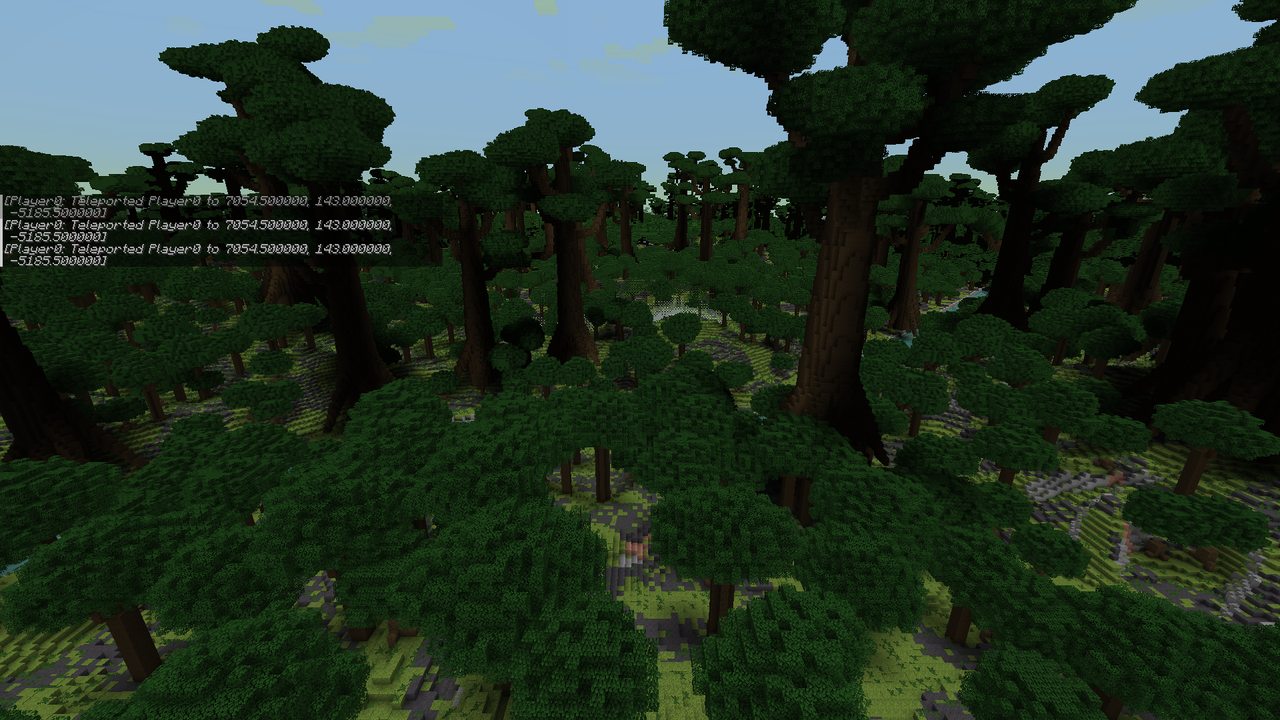
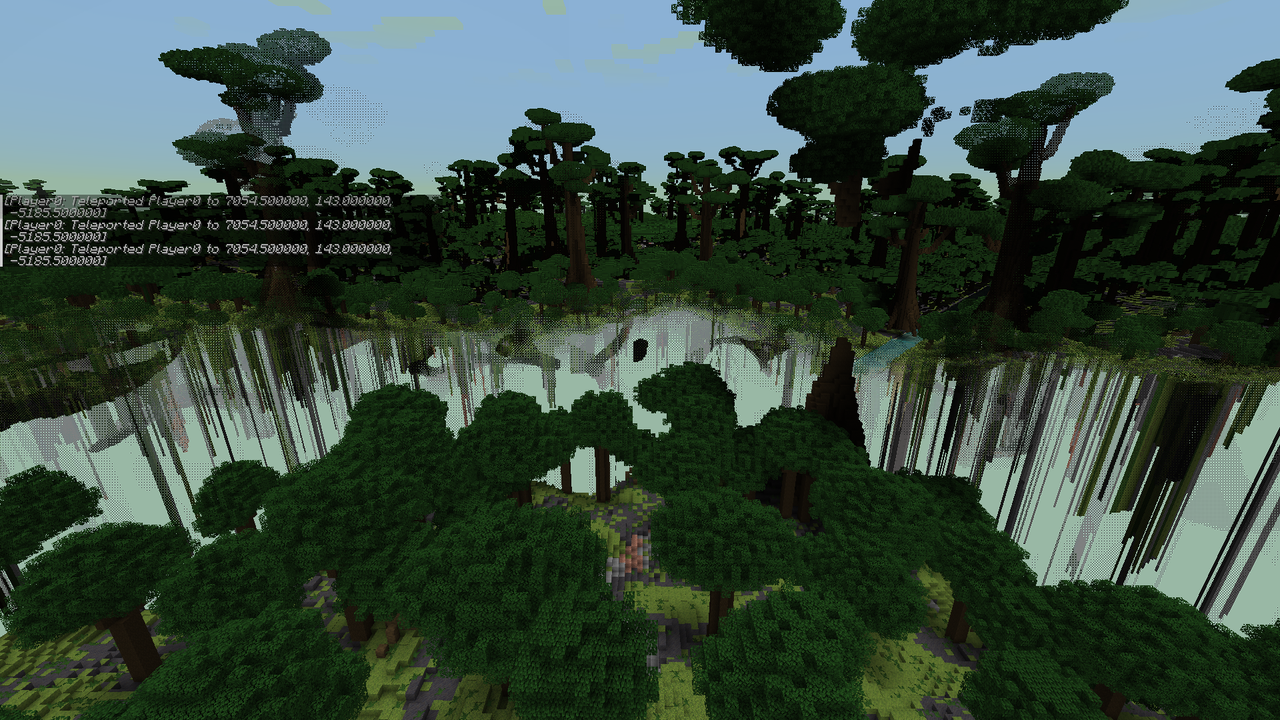
Record device session 2: launcher fix, full-pack FPS, census and screenshots
Claude-Session: https://claude.ai/code/session_01XgAo3bNJTgy4FV4EhYCazH

diff --git a/docs/CHAPTER_STATUS.md b/docs/CHAPTER_STATUS.md
@@ -196,3 +196,50 @@ Machine: AMD Ryzen 9 9955HX (16 cores / 32 threads), NVIDIA GeForce RTX 5070 Lap
 1. In-game tour of build `3b278a7` or later on the owner's PC, with screenshots of every landmark.
 2. Frame rates with and without shaders; Distant Horizons seam check (WP7, WP8, WP10).
 3. Acceptance report (WP11), then stop for review.
+
+### Device session 2 (2026-11-03, `robbs-strix`)
+
+**Launcher profile fix.** The owner's VEYRATH launch from the official launcher (Microsoft Store
+build 3.42.5) logged `Loading 4 mods`: Fabric saw an empty mods folder in
+`%APPDATA%\.minecraft-veyrath`. Starting the same classpath with the launcher's own Java runtime
+offline in that folder loaded all 91 mods. The packaged launcher does not see game folders
+outside `.minecraft` that it did not create. The installer now uses
+`%APPDATA%\.minecraft\instances\veyrath` (25cc62a), and an offline start from there loads 91 mods,
+including VEYRATH. Not yet confirmed by the owner through the launcher itself.
+
+**Full pack in the dev client.** `-Pveyrath.fullPack=true` loads the jars from the profile's mods
+folder: Sodium 0.9.2, Iris 1.11.7, DH 3.3.4, Lithium 0.26.3, FerriteCore 9.0.0, C2ME
+0.4.2-alpha.0.115, Mod Menu 21.0.0, Placeholder API 3.2.0, plus Fabric API 0.165.2 and VEYRATH
+from the build (92 mods). The tour asserts that `veyrath:veyrath` is in the `minecraft:normal`
+preset tag (it is). Errors: only DH `SQLException: stmt pointer is closed` when a world closes.
+
+**FPS** (10 s averages per stop, 24-chunk render distance, 1920x1080 test window; `maxFps` 260,
+idle limiter off). The numbers differ between runs, so compare within a run only:
+- Seed 2, full pack, no shaders, with ambient particles (final run): 202–237 at 15 of 16 stops
+  (the max of about 240 at most stops looks like a frame cap); Elderbough 22 average (20–40) for
+  that 10 s window while far terrain generated.
+- Seed 2, full pack, no shaders, before the particles (earlier run): 193–237. Particles: no
+  measurable drop.
+- Seed 1, full pack, Complementary Unbound r5.9.3: 48–139 (spawn 52, Crown 48, crown_falls 58,
+  most stops 90–130).
+- Seed 1 and 2, full pack, no shaders, first run of the day: 87–139. The same stops ran about 2x
+  faster in later runs; the cause is unknown (window focus or GPU state).
+
+**Distant Horizons band: test artifact.** The sky-coloured band and pillars between chunks and LOD
+came from the tour raising render distance after the world had started. With render distance set
+before world creation, the band does not appear (`seed2_spawn_w_fullpack.png`).
+
+**Ground cover census** (64x64 columns around each stop). Seed 2 spawn: short grass in 1053 of
+4096 columns (26 %; the engine predicts 1961 of 6400, 31 %), so grass is present. Flowers only at
+fault (408) and crown_falls (94–144). Cave vines 10 and hanging roots 1 under the Crown (seed 2).
+Falling water 32 at the seed 1 waterfall. No Ashen Wastes cell within 6 km of seed 2 spawn.
+
+**Looks wrong**
+- Shaders: distant LOD terrain is washed out to pale grey-white, with streaks
+  (`seed1_aethercrown_e_shaders.png`).
+- Spires: a single 2-block-wide banded pillar reads as artificial (`seed1_spires_e_shaders.png`).
+- Undersides of the Crown islands are solid black (`seed2_crown_falls_w_fullpack.png`); the Crown
+  waterfall reads as a thin straight column.
+- None of the Cinderwake waterfall views frames the fall itself.
+- Mossdeep spores and Cinderwake ash are faint white dots; ash could read as light snow at a
+  glance.
